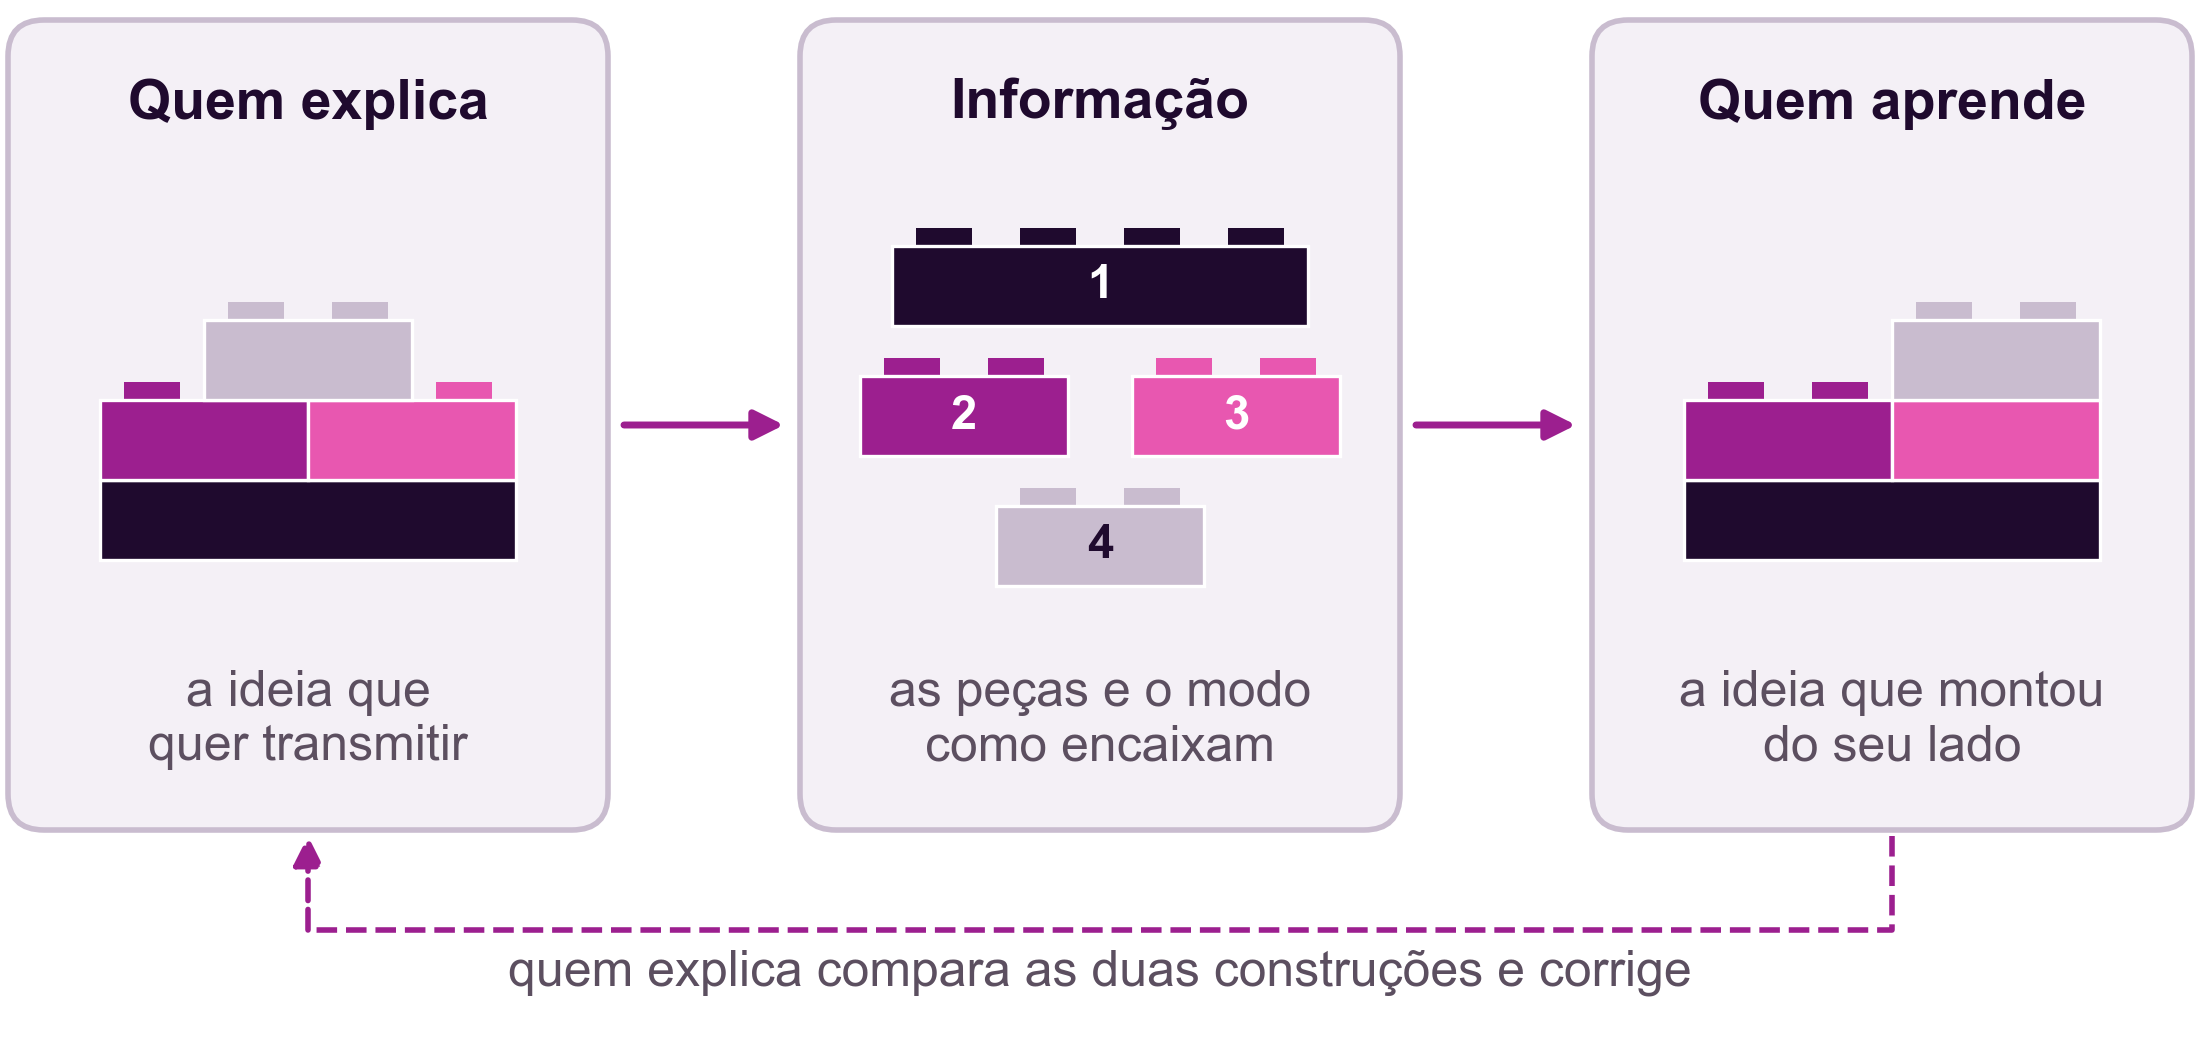
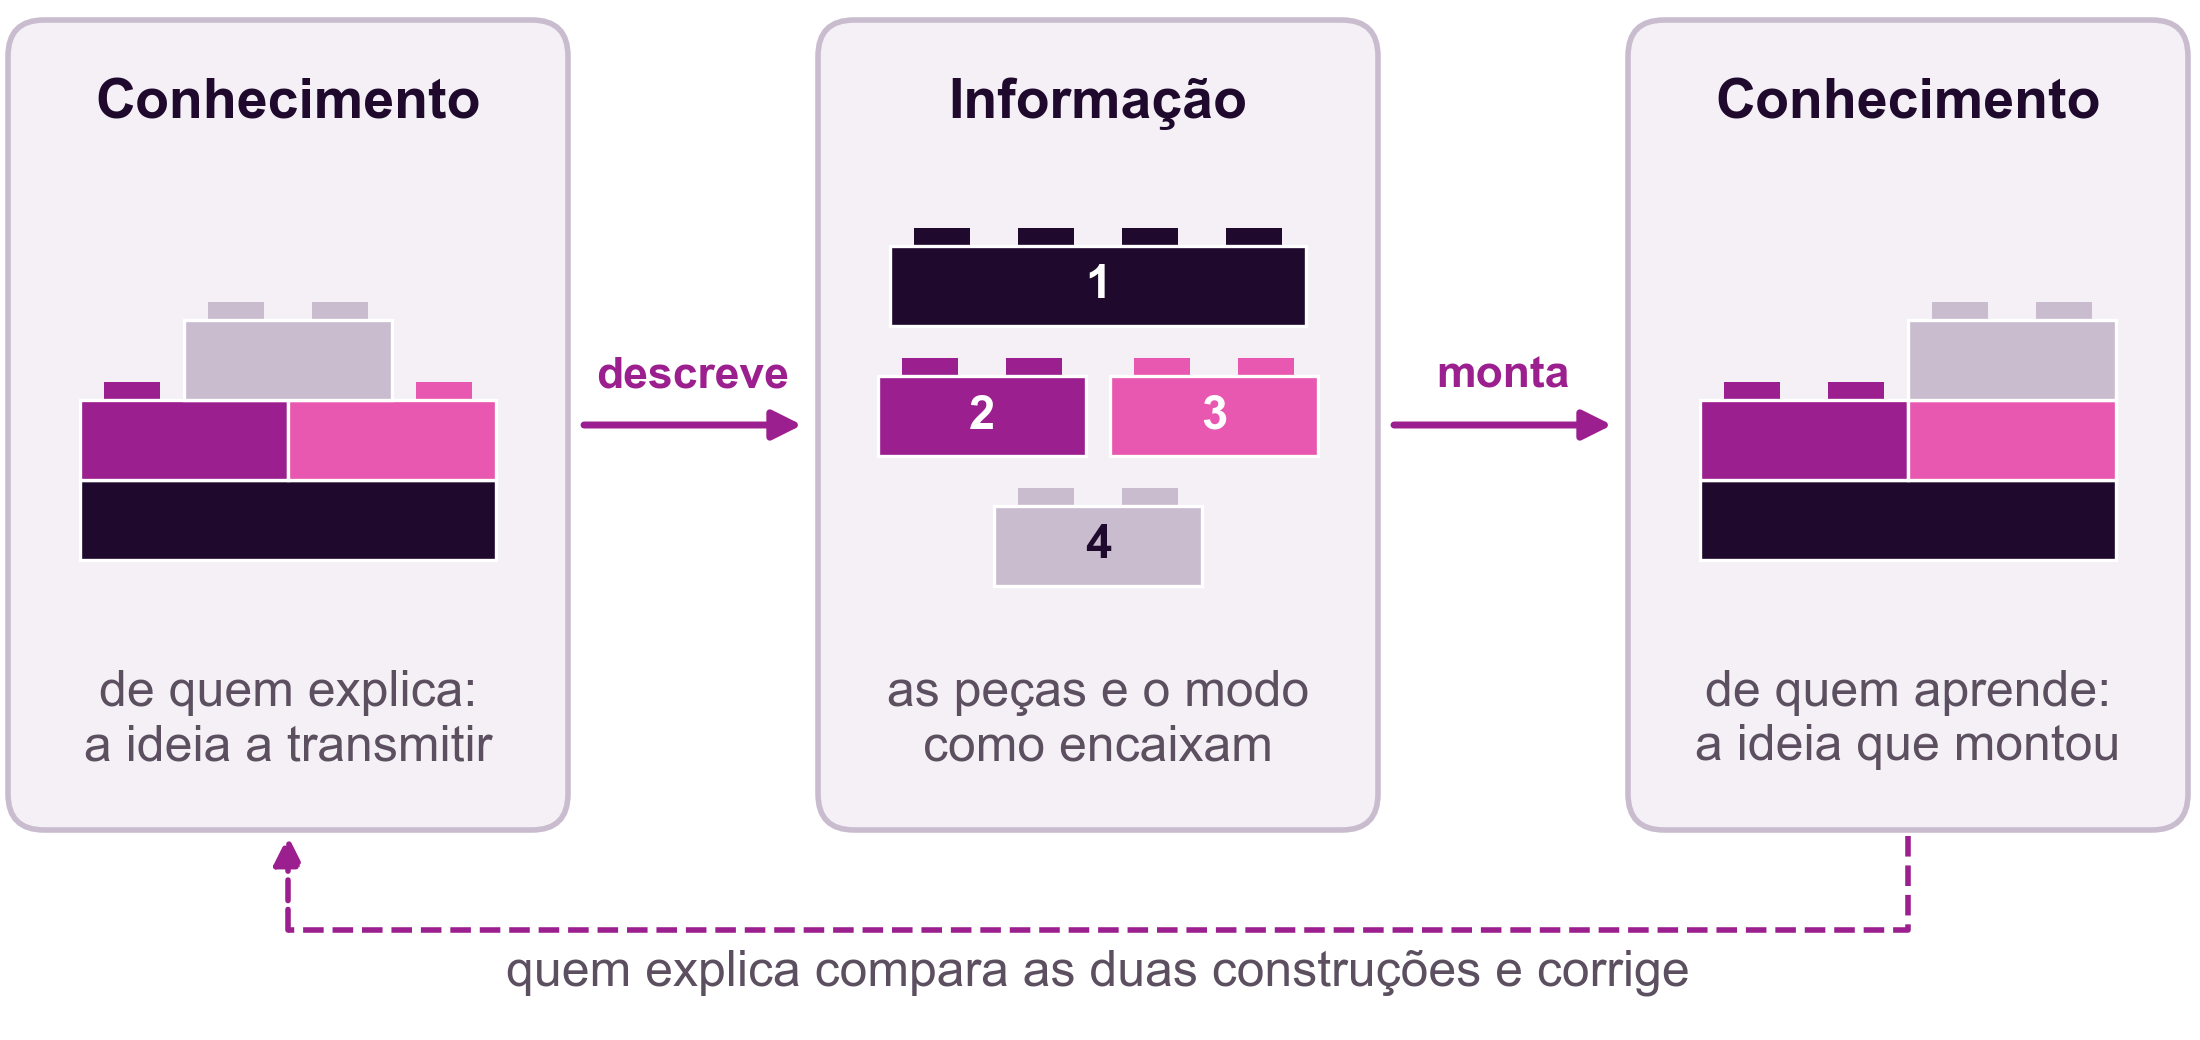
Cap09: analogia LEGO liga conhecimento e informação (texto, figura e site, PT e EN)

diff --git a/docs/en/capitulos/cap09.html b/docs/en/capitulos/cap09.html
@@ -671,14 +671,14 @@ Figure&nbsp;9.2: The three versions of an episode: the reported version results 
 </section>
 <section id="sec-09-transmission-en" class="level3" data-number="9.4.3">
 <h3 data-number="9.4.3" class="anchored" data-anchor-id="sec-09-transmission-en"><span class="header-section-number">9.4.3</span> Transmitting knowledge: information and reconstruction</h3>
-<p>Knowledge can be transmitted through information, when the latter is guided by whoever explains, so that the other person forms the idea that is meant to be conveyed. Knowledge can be thought of as an object built in LEGO (<a href="#fig-09-lego-en" class="quarto-xref">Figure&nbsp;<span>9.3</span></a>): the same pieces can be assembled into very different constructions. <strong>Information</strong> is the pieces and the way they fit together. To transmit is to manage to describe the construction so that the other person assembles the same one on their side, that is, has the same idea.</p>
+<p>Knowledge can be transmitted through information, when the latter is guided by whoever explains. <strong>Knowledge</strong> can be thought of as an object built in LEGO (<a href="#fig-09-lego-en" class="quarto-xref">Figure&nbsp;<span>9.3</span></a>), the construction that each person has in their mind: the same pieces can be assembled into very different constructions. <strong>Information</strong> is the pieces and the way they fit together, that which passes from one person to another. The explainer describes their knowledge as information; the learner builds their own from it. To transmit knowledge is to pass on information that allows the other person to assemble the same construction, that is, to have the same idea.</p>
 <div id="fig-09-lego-en" class="quarto-float quarto-figure quarto-figure-center anchored" data-fig-pos="H">
 <figure class="quarto-float quarto-float-fig figure">
 <div aria-describedby="fig-09-lego-en-caption-0ceaefa1-69ba-4598-a22c-09a6ac19f8ca">
 <img src="../assets/images/cap09/analogia-lego.png" class="img-fluid figure-img" data-fig-pos="H">
 </div>
 <figcaption class="quarto-float-caption-bottom quarto-float-caption quarto-float-fig" id="fig-09-lego-en-caption-0ceaefa1-69ba-4598-a22c-09a6ac19f8ca">
-Figure&nbsp;9.3: The LEGO analogy: what travels is information, and the construction is reassembled by whoever receives it; the explainer compares the result and corrects it.
+Figure&nbsp;9.3: The LEGO analogy: the explainer’s knowledge is described as information, from which the learner builds their own; the explainer compares the result and corrects it.
 </figcaption>
 </figure>
 </div>

diff --git a/docs/capitulos/cap09.html b/docs/capitulos/cap09.html
@@ -670,14 +670,14 @@ Figura&nbsp;9.2: As três versões de um episódio: a versão relatada resulta d
 </section>
 <section id="sec-09-transmissao" class="level3" data-number="9.4.3">
 <h3 data-number="9.4.3" class="anchored" data-anchor-id="sec-09-transmissao"><span class="header-section-number">9.4.3</span> Transmitir conhecimento: a informação e a reconstrução</h3>
-<p>O conhecimento pode transmitir-se através da informação, quando esta é guiada por quem explica, de modo que a outra pessoa forme a ideia que se pretende transmitir. Pode pensar-se no conhecimento como um objeto construído em LEGO (<a href="#fig-09-lego" class="quarto-xref">Figura&nbsp;<span>9.3</span></a>): com as mesmas peças montam-se construções muito diferentes. A <strong>informação</strong> são as peças e o modo como encaixam umas nas outras. Transmitir é conseguir descrever a construção de modo que a outra pessoa monte, do seu lado, a mesma, ou seja, tenha a mesma ideia.</p>
+<p>O conhecimento pode transmitir-se através da informação, quando esta é guiada por quem explica. Pode pensar-se no <strong>conhecimento</strong> como um objeto construído em LEGO (<a href="#fig-09-lego" class="quarto-xref">Figura&nbsp;<span>9.3</span></a>), a construção que cada pessoa tem na cabeça: com as mesmas peças montam-se construções muito diferentes. A <strong>informação</strong> são as peças e o modo como encaixam umas nas outras, aquilo que passa de uma pessoa para outra. Quem explica descreve o seu conhecimento em informação; quem aprende monta, a partir dela, o seu. Transmitir conhecimento é passar informação que permita à outra pessoa montar a mesma construção, ou seja, ter a mesma ideia.</p>
 <div id="fig-09-lego" class="quarto-float quarto-figure quarto-figure-center anchored" data-fig-pos="H">
 <figure class="quarto-float quarto-float-fig figure">
 <div aria-describedby="fig-09-lego-caption-0ceaefa1-69ba-4598-a22c-09a6ac19f8ca">
 <img src="../assets/images/cap09/analogia-lego.png" class="img-fluid figure-img" data-fig-pos="H">
 </div>
 <figcaption class="quarto-float-caption-bottom quarto-float-caption quarto-float-fig" id="fig-09-lego-caption-0ceaefa1-69ba-4598-a22c-09a6ac19f8ca">
-Figura&nbsp;9.3: A analogia LEGO: o que viaja é a informação, e a construção é remontada por quem a recebe; quem explica compara o resultado e corrige.
+Figura&nbsp;9.3: A analogia LEGO: o conhecimento de quem explica é descrito em informação, a partir da qual quem aprende monta o seu; quem explica compara o resultado e corrige.
 </figcaption>
 </figure>
 </div>

diff --git a/assets/scripts/make_cap09_lego.py b/assets/scripts/make_cap09_lego.py
@@ -16,15 +16,17 @@ LANG = sys.argv[1] if len(sys.argv) > 1 else "pt"
 RAIZ = Path(sys.argv[2] if len(sys.argv) > 2 else "/Users/jpavao/QProjects/Sebenta-PSC")
 T = {
     "pt": dict(
-        paineis=[("Quem explica", "a ideia que\nquer transmitir"),
+        paineis=[("Conhecimento", "de quem explica:\na ideia a transmitir"),
                  ("Informação", "as peças e o modo\ncomo encaixam"),
-                 ("Quem aprende", "a ideia que montou\ndo seu lado")],
+                 ("Conhecimento", "de quem aprende:\na ideia que montou")],
+        verbos=["descreve", "monta"],
         volta="quem explica compara as duas construções e corrige",
         out=RAIZ / "assets/images/cap09/analogia-lego.png"),
     "en": dict(
-        paineis=[("Who explains", "the idea to\nbe conveyed"),
+        paineis=[("Knowledge", "of the explainer:\nthe idea to convey"),
                  ("Information", "the pieces and how\nthey fit together"),
-                 ("Who learns", "the idea built\non their side")],
+                 ("Knowledge", "of the learner:\nthe idea they built")],
+        verbos=["describes", "builds"],
         volta="the explainer compares both constructions and corrects",
         out=RAIZ / "en/assets/images/cap09/analogia-lego.png"),
 }[LANG]
@@ -36,7 +38,7 @@ ax.set_xlim(0, 11)
 ax.set_ylim(0, 5.2)
 ax.set_aspect("equal")
 ax.axis("off")
-L, G, Y, H = 3.0, 0.96, 1.05, 4.05
+L, G, Y, H = 2.8, 1.25, 1.05, 4.05
 xs = [0.04 + k * (L + G) for k in range(3)]
 U, A = 0.52, 0.40
 AZUL = GREY
@@ -77,6 +79,8 @@ peca(x + (L - 2 * U) / 2, Y + 1.22, 2, AZUL, "4")
 seta = dict(arrowstyle="-|>", color=MAGENTA, linewidth=2.5, mutation_scale=22, shrinkA=0, shrinkB=0)
 for k in range(2):
     ax.annotate("", xy=(xs[k + 1] - 0.08, Y + H / 2), xytext=(xs[k] + L + 0.08, Y + H / 2), arrowprops=seta)
+    ax.text(xs[k] + L + G / 2, Y + H / 2 + 0.14, T["verbos"][k], ha="center", va="bottom", color=MAGENTA,
+            fontweight="bold", fontsize=NODE_LABEL_SIZE - 3)
 c1, c3, yb = xs[0] + L / 2, xs[2] + L / 2, 0.55
 ax.plot([c3, c3, c1], [Y - 0.03, yb, yb], color=MAGENTA, linewidth=2, linestyle="--")
 ax.annotate("", xy=(c1, Y - 0.03), xytext=(c1, yb), arrowprops=dict(seta, linestyle="--", linewidth=2))
